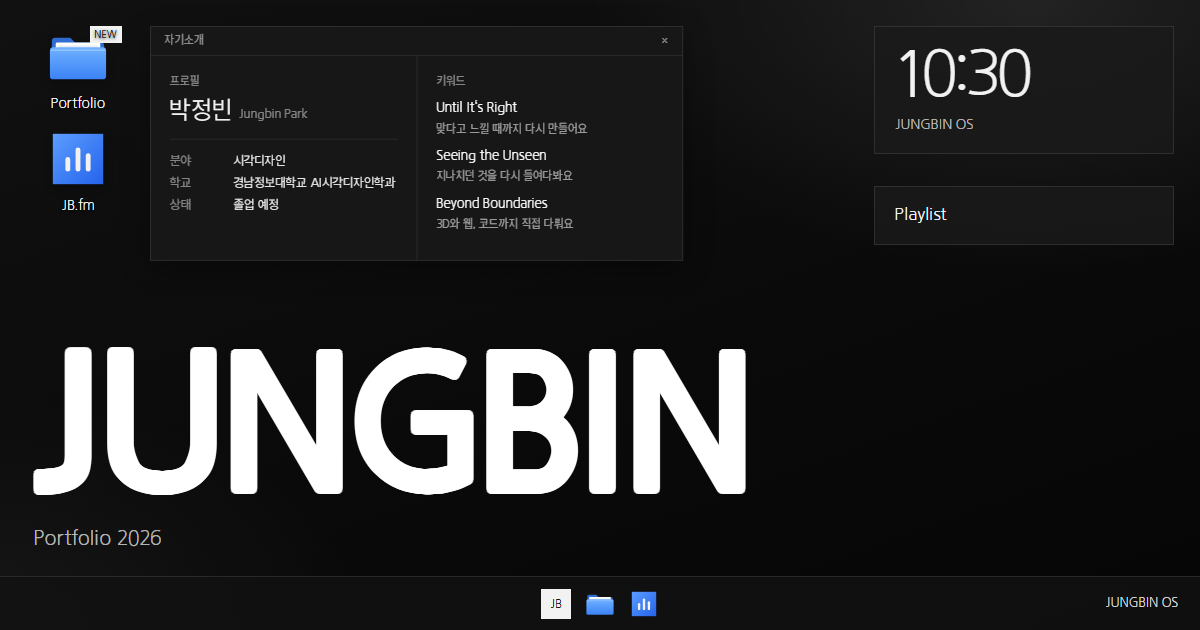
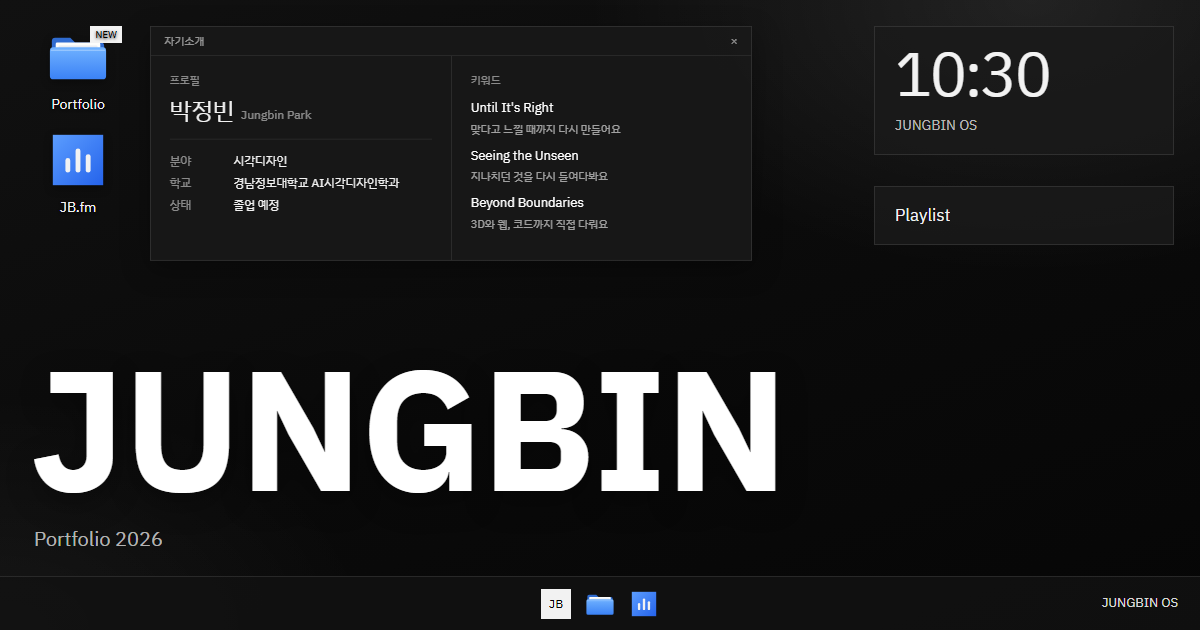
Site font: IBM Plex Sans KR with real bold weights

diff --git a/index.html b/index.html
@@ -44,18 +44,19 @@
   if (lite) document.documentElement.className += " lite";
 })();
 </script>
-<link rel="preload" href="assets/fonts/KOTRA_GOTHIC.ttf" as="font" type="font/ttf" crossorigin>
+<link rel="preconnect" href="https://fonts.googleapis.com">
+<link rel="preconnect" href="https://fonts.gstatic.com" crossorigin>
+<link href="https://fonts.googleapis.com/css2?family=IBM+Plex+Sans+KR:wght@300;400;500;600;700&display=swap" rel="stylesheet">
 <style>
-@font-face{font-family:"KOTRA Gothic";src:url("assets/fonts/KOTRA_GOTHIC.ttf") format("truetype");font-weight:400;font-display:swap}
 :root{
   --bg:#121114; --fg:#F2EFE8; --dim:rgba(242,239,232,.55); --faint:rgba(242,239,232,.1);
   --acid:#F2F2F2; --blue:#E8E8E8;
   /* hip palette — soft pastels so it stays easy on the eyes */
   --pink:#FF92C8; --lilac:#B9A7FF; --orange:#FFA266; --sky:#8AD6FF; --lemon:#F7E27C; --cream:#F2EFE8; --ink:#141317;
-  --display:"KOTRA Gothic","Malgun Gothic",sans-serif; --krd:"KOTRA Gothic","Malgun Gothic",sans-serif;
+  --display:"IBM Plex Sans KR","Malgun Gothic",sans-serif; --krd:"IBM Plex Sans KR","Malgun Gothic",sans-serif;
   --hard:3px 3px 0 #000; --glass:rgba(24,24,27,.62); --glass2:rgba(255,255,255,.06);
   --line:1px solid rgba(255,255,255,.1); --r:18px;
-  --sans:"KOTRA Gothic","Malgun Gothic",sans-serif; --mono:"KOTRA Gothic","Malgun Gothic",sans-serif; --kr:"KOTRA Gothic","Malgun Gothic",sans-serif;
+  --sans:"IBM Plex Sans KR","Malgun Gothic",sans-serif; --mono:"IBM Plex Sans KR","Malgun Gothic",sans-serif; --kr:"IBM Plex Sans KR","Malgun Gothic",sans-serif;
   --spring:cubic-bezier(.34,1.56,.64,1); --ease:cubic-bezier(.7,0,.2,1);
   --tb:calc(52px + env(safe-area-inset-bottom, 0px));
 }
@@ -818,8 +819,7 @@ body.paging #desk{transform:none;opacity:.55}
 #mono{display:none}
 /* name sits low on the wallpaper, plain white */
 #hero{position:absolute;left:clamp(20px,2.4vw,40px);bottom:clamp(18px,3vh,36px);text-align:left;pointer-events:none;user-select:none}
-/* KOTRA Gothic has one weight: a ring of tight white shadows thickens it evenly into a bold */
-.hero-word{font-weight:700;font-size:clamp(96px,15vw,280px);line-height:.86;letter-spacing:-.01em;color:#FFFFFF;text-shadow:0.0220em 0.0000em 0 #FFFFFF,0.0203em 0.0084em 0 #FFFFFF,0.0156em 0.0156em 0 #FFFFFF,0.0084em 0.0203em 0 #FFFFFF,0.0000em 0.0220em 0 #FFFFFF,-0.0084em 0.0203em 0 #FFFFFF,-0.0156em 0.0156em 0 #FFFFFF,-0.0203em 0.0084em 0 #FFFFFF,-0.0220em 0.0000em 0 #FFFFFF,-0.0203em -0.0084em 0 #FFFFFF,-0.0156em -0.0156em 0 #FFFFFF,-0.0084em -0.0203em 0 #FFFFFF,-0.0000em -0.0220em 0 #FFFFFF,0.0084em -0.0203em 0 #FFFFFF,0.0156em -0.0156em 0 #FFFFFF,0.0203em -0.0084em 0 #FFFFFF,0.0102em 0.0042em 0 #FFFFFF,0.0042em 0.0102em 0 #FFFFFF,-0.0042em 0.0102em 0 #FFFFFF,-0.0102em 0.0042em 0 #FFFFFF,-0.0102em -0.0042em 0 #FFFFFF,-0.0042em -0.0102em 0 #FFFFFF,0.0042em -0.0102em 0 #FFFFFF,0.0102em -0.0042em 0 #FFFFFF,0 10px 30px rgba(0,0,0,.35);margin-left:-.02em}
+.hero-word{font-weight:700;font-size:clamp(96px,15vw,280px);line-height:.86;letter-spacing:-.01em;color:#FFFFFF;text-shadow:0 10px 30px rgba(0,0,0,.35);margin-left:-.02em}
 .hero-sub{margin-top:16px;padding-left:.15em;font-size:17px;color:rgba(255,255,255,.7)}
 .hero-sub b{color:#FFFFFF;font-weight:500}
 /* widgets (right column) */
@@ -996,9 +996,6 @@ body.paging #desk{transform:none;opacity:.55}
   .cs-h b{font-size:24px}
   .cs-txt{font-size:15px}
 }
-/* ---------- bold for the single-weight KOTRA Gothic: a tight ring of same-colour shadows ---------- */
-:root{--fb-l:0.0200em 0.0000em 0,0.0185em 0.0077em 0,0.0141em 0.0141em 0,0.0077em 0.0185em 0,0.0000em 0.0200em 0,-0.0077em 0.0185em 0,-0.0141em 0.0141em 0,-0.0185em 0.0077em 0,-0.0200em 0.0000em 0,-0.0185em -0.0077em 0,-0.0141em -0.0141em 0,-0.0077em -0.0185em 0,-0.0000em -0.0200em 0,0.0077em -0.0185em 0,0.0141em -0.0141em 0,0.0185em -0.0077em 0,0.0092em 0.0038em 0,0.0039em 0.0092em 0,-0.0038em 0.0092em 0,-0.0092em 0.0039em 0,-0.0092em -0.0038em 0,-0.0039em -0.0092em 0,0.0038em -0.0092em 0,0.0092em -0.0039em 0;--fb-s:0.0140em 0.0000em 0,0.0121em 0.0070em 0,0.0070em 0.0121em 0,0.0000em 0.0140em 0,-0.0070em 0.0121em 0,-0.0121em 0.0070em 0,-0.0140em 0.0000em 0,-0.0121em -0.0070em 0,-0.0070em -0.0121em 0,-0.0000em -0.0140em 0,0.0070em -0.0121em 0,0.0121em -0.0070em 0}
-.cs-title,.cs-pname,.cs-quote{text-shadow:var(--fb-l)}
 .cs-h b{font-weight:700}
 .cs-title{letter-spacing:-.015em}
 .cs-pname{letter-spacing:0}
@@ -1186,7 +1183,7 @@ const G = {
   mail:`<svg viewBox="0 0 24 24" ${S}><rect x="3" y="5" width="18" height="14" rx="3"/><path d="M4 7l8 6 8-6"/></svg>`
 };
 /* desktop icons — real file / folder / app shapes (gradients live in #icon-defs) */
-const folderSvg = (label="") => `<svg viewBox="0 0 64 64"><path d="M5 15.5A3.5 3.5 0 0 1 8.5 12H24l5 5h26.5A3.5 3.5 0 0 1 59 20.5V27H5z" fill="#2F6BD0"/><rect x="9" y="17" width="46" height="16" rx="1.5" fill="#FDFDFB"/><rect x="12" y="20" width="40" height="13" rx="1" fill="#E9ECF2"/><path d="M3 25.5A3.5 3.5 0 0 1 6.5 22h51a3.5 3.5 0 0 1 3.5 3.5v26a3.5 3.5 0 0 1-3.5 3.5h-51A3.5 3.5 0 0 1 3 51.5z" fill="url(#g-fold)"/><path d="M4 25h56" stroke="#B9DAFF" stroke-opacity=".8"/>${label ? `<text x="55" y="50.5" text-anchor="end" font-family="KOTRA Gothic,Arial,sans-serif" font-size="11" font-weight="700" fill="#0F3D7A" fill-opacity=".75">${label}</text>` : ""}</svg>`;
+const folderSvg = (label="") => `<svg viewBox="0 0 64 64"><path d="M5 15.5A3.5 3.5 0 0 1 8.5 12H24l5 5h26.5A3.5 3.5 0 0 1 59 20.5V27H5z" fill="#2F6BD0"/><rect x="9" y="17" width="46" height="16" rx="1.5" fill="#FDFDFB"/><rect x="12" y="20" width="40" height="13" rx="1" fill="#E9ECF2"/><path d="M3 25.5A3.5 3.5 0 0 1 6.5 22h51a3.5 3.5 0 0 1 3.5 3.5v26a3.5 3.5 0 0 1-3.5 3.5h-51A3.5 3.5 0 0 1 3 51.5z" fill="url(#g-fold)"/><path d="M4 25h56" stroke="#B9DAFF" stroke-opacity=".8"/>${label ? `<text x="55" y="50.5" text-anchor="end" font-family="IBM Plex Sans KR,Arial,sans-serif" font-size="11" font-weight="700" fill="#0F3D7A" fill-opacity=".75">${label}</text>` : ""}</svg>`;
 const appSvg = (g, inner) => `<svg viewBox="0 0 64 64"><rect x="6" y="6" width="52" height="52" fill="url(#${g})"/><rect x="6.5" y="6.5" width="51" height="51" fill="none" stroke="#fff" stroke-opacity=".2"/>${inner}</svg>`;
 const ICO = {
   me: appSvg("g-me", `<circle cx="32" cy="26" r="8" fill="#fff"/><path d="M17 47c2.5-7.5 8.5-11 15-11s12.5 3.5 15 11z" fill="#fff"/>`),
@@ -1217,8 +1214,8 @@ const GL = {
   font:`<svg viewBox="0 0 24 24" fill="none" stroke="currentColor" stroke-width="1.5" stroke-linecap="round"><path d="M5 19l6-14h2l6 14M8 14h8"/></svg>`,
   dot:`<svg viewBox="0 0 24 24" fill="none" stroke="currentColor" stroke-width="1.5"><circle cx="8" cy="9" r="4"/><circle cx="16" cy="9" r="4"/><circle cx="12" cy="15" r="4"/></svg>`,
   pin:`<svg viewBox="0 0 24 24" fill="none" stroke="currentColor" stroke-width="1.5" stroke-linejoin="round"><path d="M12 21s-7-6.2-7-11.5A7 7 0 0 1 19 9.5C19 14.8 12 21 12 21z"/><circle cx="12" cy="9.5" r="2.5"/></svg>`,
-  ai:`<svg viewBox="0 0 24 24"><rect x="3" y="3" width="18" height="18" rx="4" fill="#33260F"/><text x="12" y="16" text-anchor="middle" font-family="KOTRA Gothic,Arial" font-weight="700" font-size="9" fill="#FF9A00">Ai</text></svg>`,
-  psd:`<svg viewBox="0 0 24 24"><rect x="3" y="3" width="18" height="18" rx="4" fill="#0B2135"/><text x="12" y="16" text-anchor="middle" font-family="KOTRA Gothic,Arial" font-weight="700" font-size="9" fill="#31A8FF">Ps</text></svg>`,
+  ai:`<svg viewBox="0 0 24 24"><rect x="3" y="3" width="18" height="18" rx="4" fill="#33260F"/><text x="12" y="16" text-anchor="middle" font-family="IBM Plex Sans KR,Arial" font-weight="700" font-size="9" fill="#FF9A00">Ai</text></svg>`,
+  psd:`<svg viewBox="0 0 24 24"><rect x="3" y="3" width="18" height="18" rx="4" fill="#0B2135"/><text x="12" y="16" text-anchor="middle" font-family="IBM Plex Sans KR,Arial" font-weight="700" font-size="9" fill="#31A8FF">Ps</text></svg>`,
   user:`<svg viewBox="0 0 24 24" fill="none" stroke="currentColor" stroke-width="1.6"><circle cx="12" cy="8" r="4"/><path d="M4 21c1.5-4 4.5-6 8-6s6.5 2 8 6"/></svg>`,
   cal:`<svg viewBox="0 0 24 24" fill="none" stroke="currentColor" stroke-width="1.6"><rect x="3" y="5" width="18" height="16" rx="2"/><path d="M3 10h18M8 3v4M16 3v4"/></svg>`,
   geo:`<svg viewBox="0 0 24 24" fill="none" stroke="currentColor" stroke-width="1.6"><path d="M12 21s-7-6.2-7-11.5A7 7 0 0 1 19 9.5C19 14.8 12 21 12 21z"/><circle cx="12" cy="9.5" r="2.5"/></svg>`,
